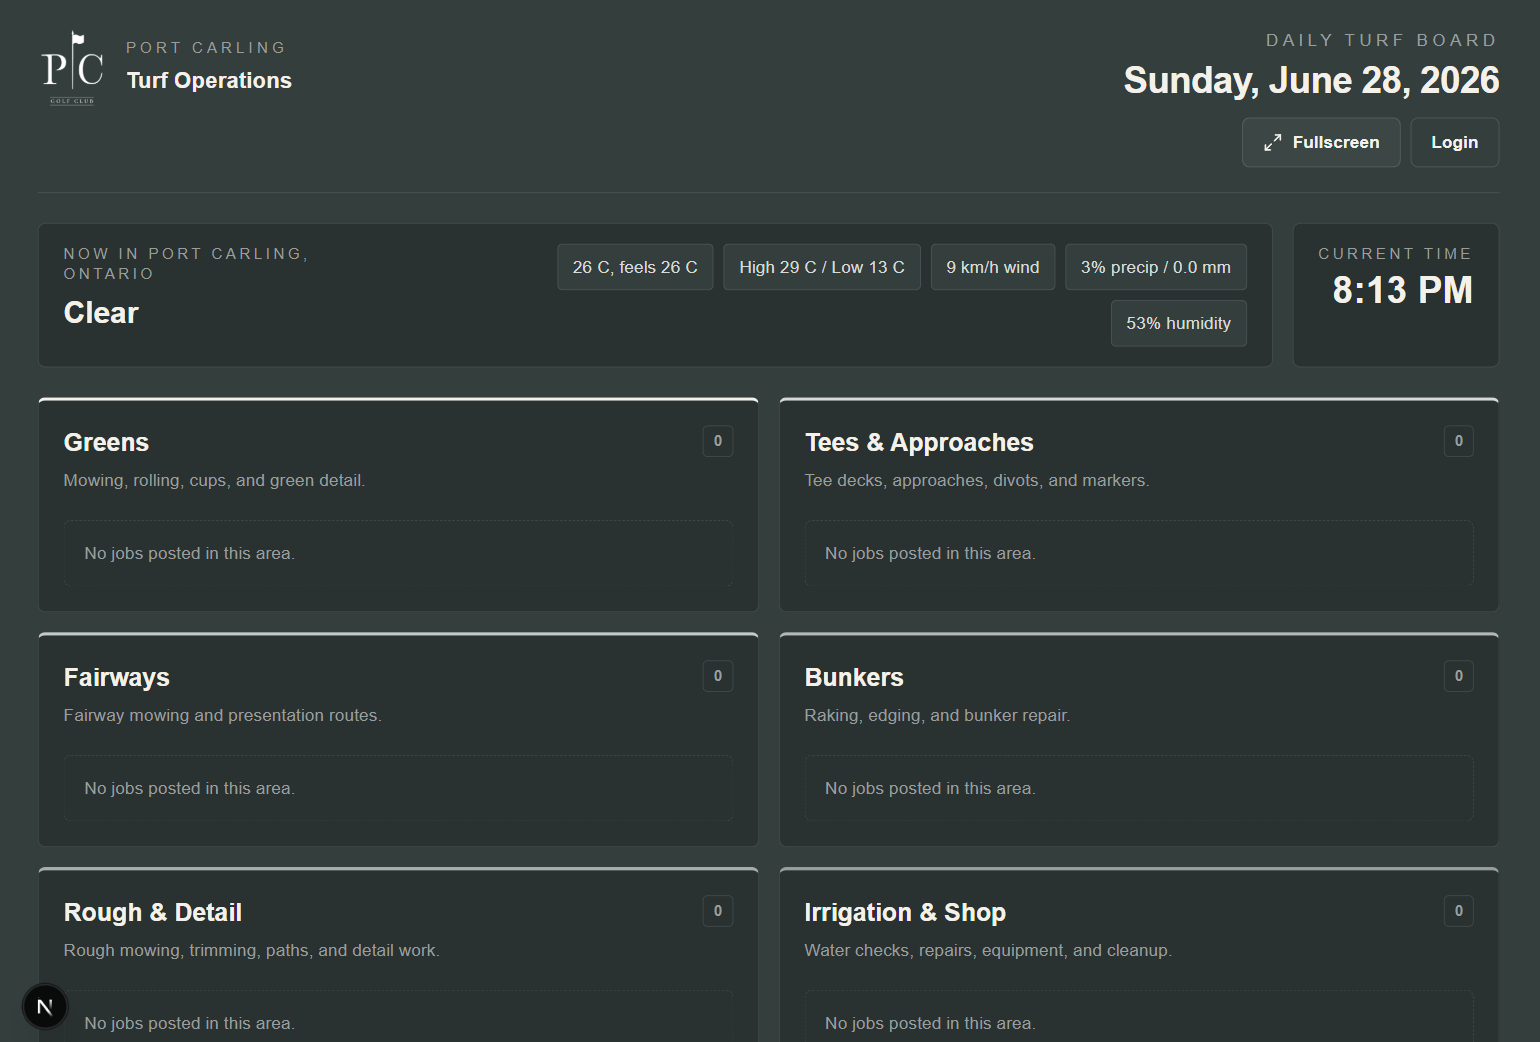
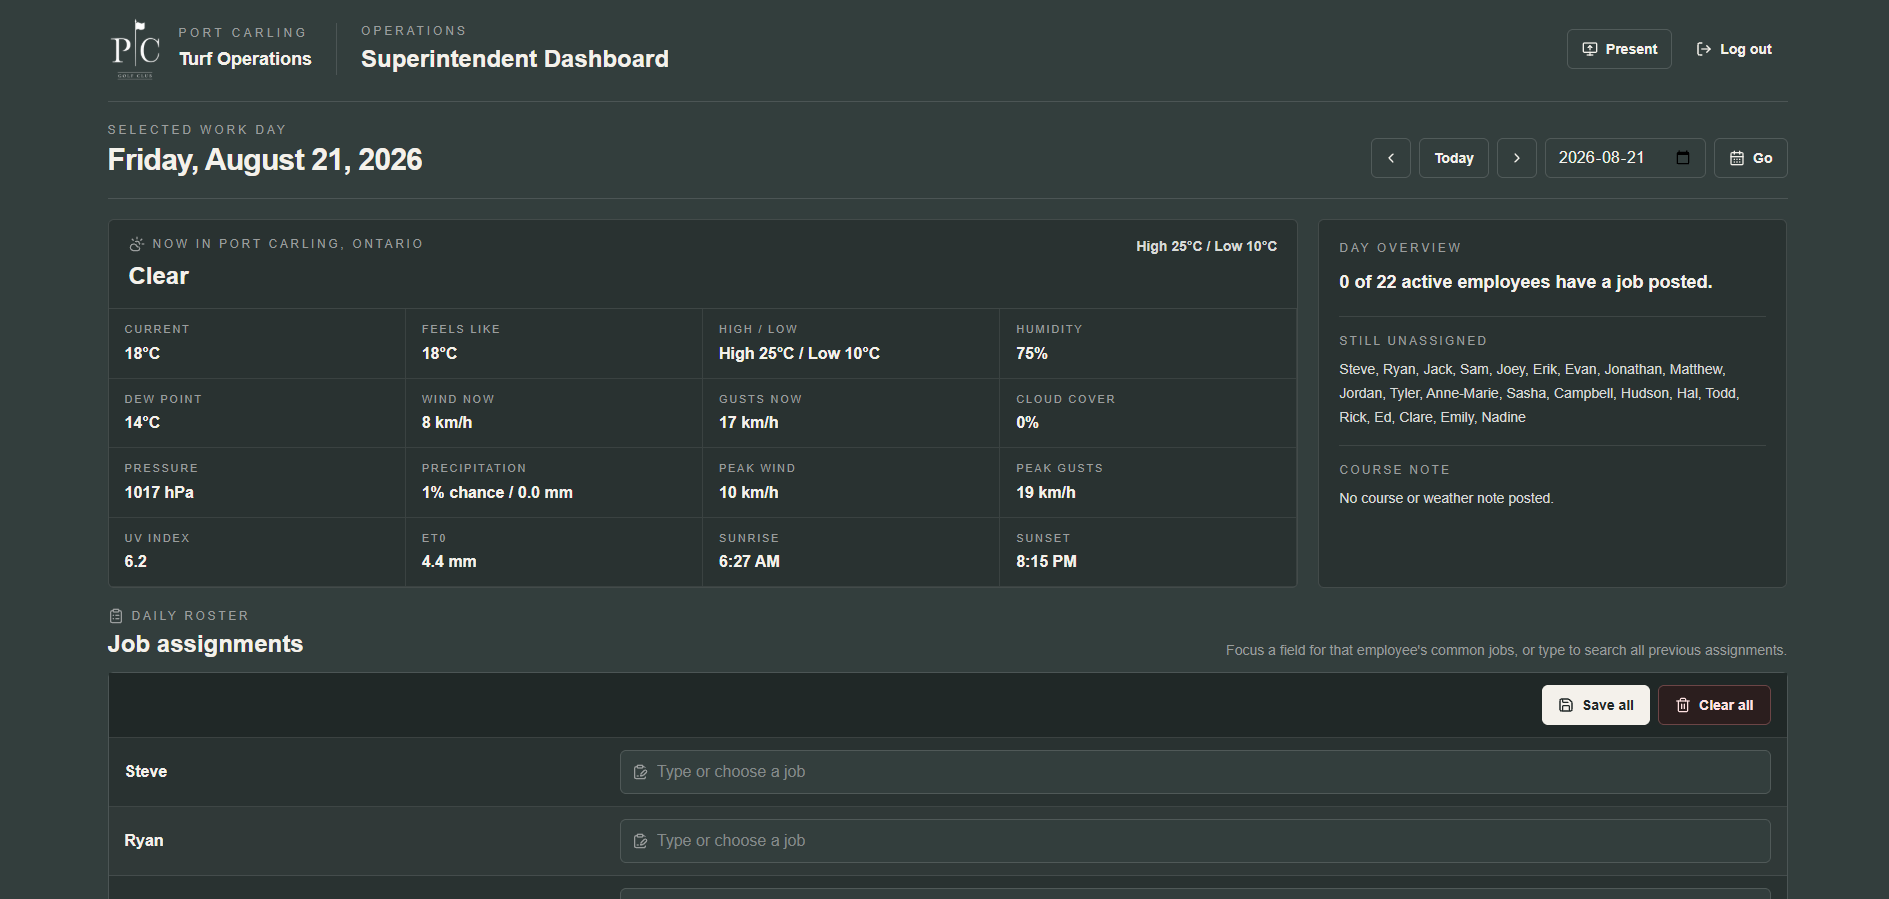
Added new image and priority for pc turf web app

diff --git a/src/data/projects.ts b/src/data/projects.ts
@@ -187,7 +187,7 @@ export const projects: Project[] = [
     shortDescription:
       "A web application to assign jobs and act as an information hub for a golf course maintenance team.",
     longDescription:
-      "A web application to assign jobs and act as an information hub for a golf course maintenance team.",
+      "A web application to assign jobs and act as an information hub for a golf course maintenance team. Currently used by Port Carling Golf and Country Club to manage daily tasks, track progress, and communicate with team members. Built with Next.js, React, TypeScript, Tailwind CSS, Prisma, SQLite, Zod, JOSE, bcryptjs, and Lucide React.",
     techStack: [
       "Next.js",
       "React",
@@ -206,7 +206,7 @@ export const projects: Project[] = [
     imageAlt: "Screenshot of the PC Turf web application",
     private: true,
     status: "In Progress",
-    featured: false,
+    featured: true,
     tags: ["Web", "Frontend", "Backend", "Project Management"],
   },
   {
